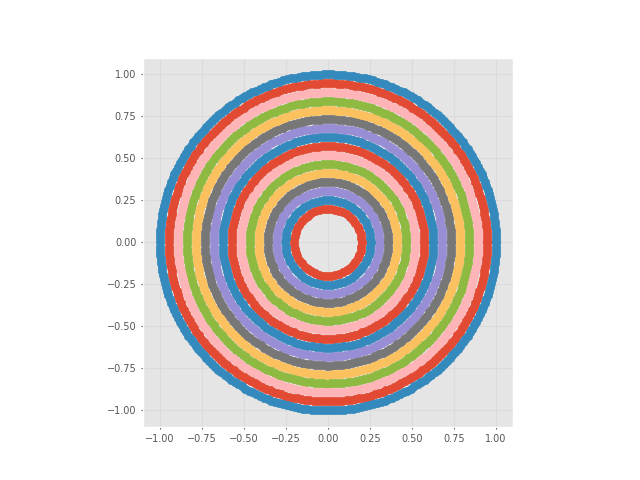
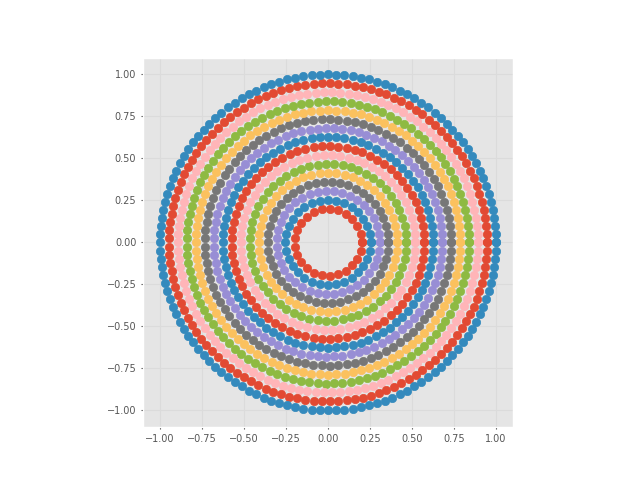
Saving for each circle as opposed to each joint config

Changed region(s): [[0.25, 0.1562, 0.7812, 0.875]]

diff --git a/training_data/training_data.py b/training_data/training_data.py
@@ -168,7 +168,7 @@ def save_file(df : pd.DataFrame):
     output_dir.mkdir(parents=True, exist_ok=True)
     df.to_csv(output_dir / output_file, index = False)  # can join path elements with / operator
 
-def explore_random_joint_angles(circles_x, circles_y, n_target_pts : int, robot_arm : rb.RobotArm2D):
+def explore_random_joint_angles(circles_x, circles_y, robot_arm : rb.RobotArm2D):
     n_circles = len(circles_x)
 
     init_joint_angles = generate_random_init_joint_angle(robot_arm)
@@ -183,13 +183,17 @@ def explore_random_joint_angles(circles_x, circles_y, n_target_pts : int, robot_
     B = 5
     N, _, _ = robot_arm.get_arm_params()
 
-    final_training_data = np.zeros(n_target_pts * len(columns), dtype=object).reshape((n_target_pts, len(columns)))
-    index = 0
+
     for circle_idx in range(n_circles):
+        print("############### CIRCLE NO: {}/{} ###############".format(circle_idx+1, n_circles+1))
         X_target = circles_x[circle_idx]
         Y_target = circles_y[circle_idx]
 
         n_pts_on_circle = len(X_target)
+        
+        index = 0
+        final_training_data = np.zeros(n_pts_on_circle * len(columns), dtype=object).reshape((n_pts_on_circle, len(columns)))
+
         closest_idx = find_closest_target_pt(
             X_target, Y_target, x_ee, y_ee)
 
@@ -249,11 +253,12 @@ def explore_random_joint_angles(circles_x, circles_y, n_target_pts : int, robot_
             final_training_data[index, 5] = J_hist[-1]
 
             index = index + 1
-    df = pd.DataFrame(
-        data=final_training_data,
-        columns=columns
-    )
-    save_file(df)
+    
+        df = pd.DataFrame(
+            data=final_training_data,
+            columns=columns
+        )
+        save_file(df)
 
 def gen_training_data(robot_arm, n_joint_config=10):
     """
@@ -273,7 +278,7 @@ def gen_training_data(robot_arm, n_joint_config=10):
     circles_x, circles_y, n_target_pts = generate_2D_target_pos(
         robot_arm,
         d_rho=0.05,
-        d_phi=np.pi/128
+        d_phi=np.pi/64
     )
 
     visualize_target_poses(circles_x, circles_y)
@@ -281,7 +286,7 @@ def gen_training_data(robot_arm, n_joint_config=10):
     task_info = None
 
     num_cores = multiprocessing.cpu_count()
-    Parallel(n_jobs=num_cores)(delayed(explore_random_joint_angles)(circles_x, circles_y, n_target_pts, robot_arm) for i in range(n_joint_config))
+    Parallel(n_jobs=num_cores)(delayed(explore_random_joint_angles)(circles_x, circles_y, robot_arm) for i in range(n_joint_config))
 
     # task_info_df = task_info.to_pd()
     # task_info_df.to_csv(
@@ -297,5 +302,5 @@ if __name__ == '__main__':
         link_lengths=np.array([0.6, 0.3, 0.1])
     )
     start = time.process_time()
-    gen_training_data(robot_arm, n_joint_config=10)
+    gen_training_data(robot_arm, n_joint_config=2)
     print("Time taken : {}".format(time.process_time() - start))

diff --git a/scripts/pdff_kinematic_sim_funcs.py b/scripts/pdff_kinematic_sim_funcs.py
@@ -317,14 +317,14 @@ def gen_theta(
         target_pos  =   x_target,
         dt          =   dt
     )
-    print(Theta_matrix)
+    # print(Theta_matrix)
     Theta, iter_count, J_hist = PIBB(
         task_info, 
         Theta_matrix, 
         Sigma_matrix, 
         init_condit
         )
-    print(Theta)
+    # print(Theta)
     return Theta, iter_count, J_hist, task_info
 
     """
